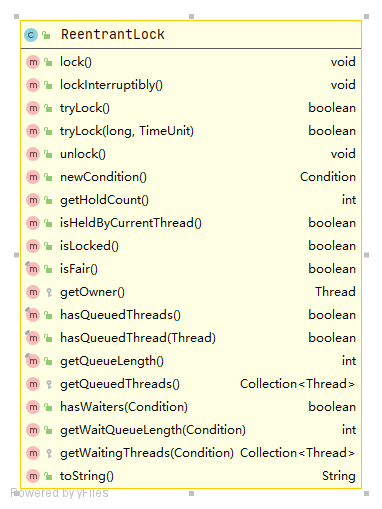
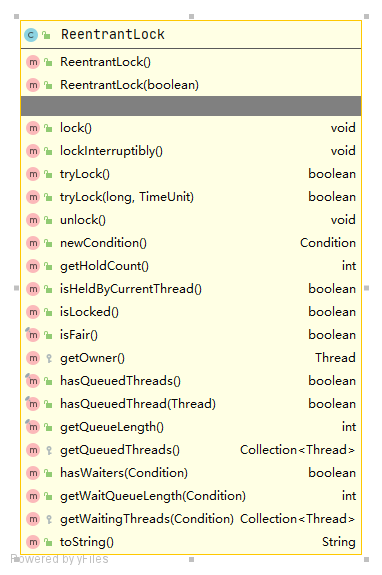
AQS部分

Changed region(s): [[0.0288, 0.0295, 0.9503, 1.0]]

diff --git a/JavaBase/src/main/java/com/zjk/hy/thread/atomic/UnsafeTest.java b/JavaBase/src/main/java/com/zjk/hy/thread/atomic/UnsafeTest.java
@@ -3,18 +3,35 @@ package com.zjk.hy.thread.atomic;
 import sun.misc.Unsafe;
 
 import java.lang.reflect.Field;
+import java.util.concurrent.locks.LockSupport;
 
 public class UnsafeTest {
     public static void main(String[] args) {
         // Unsafe unsafe = Unsafe.getUnsafe();
-        try {
+        /*try {
             Field field = Unsafe.class.getDeclaredField("theUnsafe");
             field.setAccessible(true);
             Unsafe unsafe = (sun.misc.Unsafe) field.get(null);
             System.out.println(unsafe);
         } catch (NoSuchFieldException | IllegalAccessException e) {
             e.printStackTrace();
-        }
+        }*/
+
+        System.out.println(new UnsafeTest().get());
 
     }
+
+    public int get(){
+        for(int i=0;i<10;i++) {
+            System.out.println("aaaaaaaaaaaaa:"+i);
+            if(i==5){
+                LockSupport.park();
+                return i;
+            }
+            System.out.println("bbbbbbbbbbbbbbb:"+i);
+        }
+        return 0;
+    }
+
+
 }

diff --git a/notes/se/JUC/lock/ReentrantLock简介.md b/notes/se/JUC/lock/ReentrantLock简介.md
@@ -1,0 +1,108 @@
+### ReentrantLock简介
+
+####  简介		
+
+		一个可重入互斥Lock，具有与使用Synchronized隐式监视锁相同的基本行为和语义。同时ReentrantLock功能更加强大，使用更加灵活，具有公平锁、非公平锁、等待可中断、绑定多个条件等Synchronized不具备的功能。
+
+![](ReentrantLock.png)
+
+		ReentrantLock实现了Lock，同时通过内部类FairSync和NonFairSync实现了公平锁和非公平锁的扩展功能。FairSync和NonFairSync都继承自ReentrantLock的另一个内部类`Sync`，`Sync`继承自**`AbstractQueuedSynchronizer`**，这个类就是所谓的**`AQS`**，并发编程的核心，其使用了**自旋**、**CAS**、**park-unpark** 等技术。AQS通过内部类`Node`维护一个队列，当出现多个线程争抢锁时，无法获取锁的线程会被封装为一个Node结点放入队列中，同时通过LockSupport.park实现线程阻塞，**`如果是单个线程或者多个线程交替执行，其实和队列无关，在JDK级别解决问题`** 。
+
+#### 基础源码介绍
+
+![](ReentrantLockMethod.png)
+
+##### ReentrantLock构造方法
+
+```java
+// 创建一个ReentrantLock的实例,默认创建的是非公平锁
+ReentrantLock()
+// 根据给定的公平策略创建一个ReentrantLock的实例
+// fair=true表示采用公平锁
+ReentrantLock(boolean fair) 
+```
+
+##### ReentrantLock其他方法
+
+其中`lock`、`lockInterruptibly`、`tryLock`、`unlock`、`newcondition`几个方法是ReentranLock实现的Lock接口中的方法，其他方法如下：
+
+```java
+// 获取当前线程对此锁持有的次数（重入的次数）
+public int getHoldCount();
+// 如果当前线程持有该锁返回true，否则返回false
+public boolean isHeldByCurrentThread();
+// 如果有线程持有该锁返回true，否则返回false
+public boolean isLocked();
+// 判断该锁是否为公平锁（true），非公平锁返回false
+public final boolean isFair();
+// 查询是否有线程在等待该锁，有返回true，否则返回false
+public final boolean hasQueuedThreads();
+// 查询给定的线程是否在等待该锁，
+public final boolean hasQueuedThread(Thread thread);
+// 获取正在等待该锁的线程数量——是个预估值
+public final int getQueueLength();
+// 查询任何线程是否等待与此锁相关联的给定条件
+public boolean hasWaiters(Condition condition);
+// 返回与此锁相关联的给定条件等待的线程数的估计
+public int getWaitQueueLength(Condition condition);
+```
+
+##### AQS核心参数
+
+```java
+public abstract class AbstractQueuedSynchronizer
+    extends AbstractOwnableSynchronizer
+    implements java.io.Serializable {
+    //头节点，不保存真实信息，只表示位置，不代表实际的等待线程
+    private transient volatile Node head;
+    //尾节点
+    private transient volatile Node tail;
+    //状态
+    private volatile int state;
+}
+```
+
+##### AQS-Node核心参数
+
+```java
+static final class Node {
+	volatile int waitStatus;
+    volatile Node prev;
+    volatile Node next;
+    volatile Thread thread;
+}
+```
+
+#### Lock流程
+
+![](ReentrantLock-fairLock流程.png)
+
+**流程补充：**
+
++ acquireQueued方法：
+
+  这个方法非常的有意思，通过**`for (;;)`** 实现死循环，如果当前Node的前一个结点是Head，那么就尝试的去获取锁，获取成功则返回true，如果当前结点的prev结点不是head，就去判断prev的waitStatus，**waitStatus初始值为0，这就实现了一次自旋获取锁**，为什么要自旋，因为自旋成功获取锁就**不用去park**，自旋一次还未获取到锁，就去park，有意思的是因为for死循环，park本身是不可中断的，这种情况下被中断了，那么会从park()中醒过来，发现拿不到资源，从而继续进入park()等待。
+
++ 为什么修改的是prev的waitStatus：
+
+  + park之前线程并没有暂停，park过后不能执行任何操作了，就像人睡觉，自己并不会知道自己睡着了，其他的人知道
+  + 与解锁有关，这一块还未学习到，后面补上
+
+**入队流程如下：**
+
++ 初始状态下AQS中的head和tail都为null
+
+  ![](AQS入队流程图01.png)
+
++ 当发生资源争夺时，第一个线程入队
+
+  ![](AQS入队流程图2.png)
+
+  这里有一个隐藏的操作，新建了一个thread=null的Node作为第一个节点，具体原因没怎么想明白，可能是为了兼容后面修改waitStatus等原因吧。
+
++ 当更多的节点入队时
+
+  ![](AQS入队流程图3.png)
+
+  
+

diff --git a/notes/se/JUC/ReentrantLock简介.md b/notes/se/JUC/ReentrantLock简介.md
@@ -2,7 +2,7 @@
 
 	一个可重入互斥Lock，具有与使用Synchronized隐式监视锁相同的基本行为和语义。同时ReentrantLock功能更加强大，使用更加灵活，具有公平锁、非公平锁、等待可中断、绑定多个条件等Synchronized不具备的功能。
 
-**备注：** 不过自从JDK1.6对Synchronized优化过后，Synchronized的效率与ReentrantLock的效率以及差不多了，建议在能使用Synchronized的地方都采用Synchronized的，因为其根据简单、简洁。
+**备注：** 不过自从JDK1.6对Synchronized优化过后，Synchronized的效率与ReentrantLock的效率以及差不多了，建议在能使用Synchronized的地方都采用Synchronized的，因为其简单、简洁，不需要手动释放锁。
 
 ## 构造方法
 

diff --git a/notes/se/JUC/lock/Lock简介.md b/notes/se/JUC/lock/Lock简介.md
@@ -49,7 +49,7 @@ public interface Lock {
 + **不够灵活：** 加锁与释放锁的时机单一，读写锁更灵活
 + 无法知道是否**成功获取到锁**
 
-****
+**备注：** 不过自从JDK1.6对Synchronized优化过后，Synchronized的效率与ReentrantLock的效率以及差不多了，建议在能使用Synchronized的地方都采用Synchronized的，因为其简单、简洁，不需要手动释放锁。
 
 ****
 
